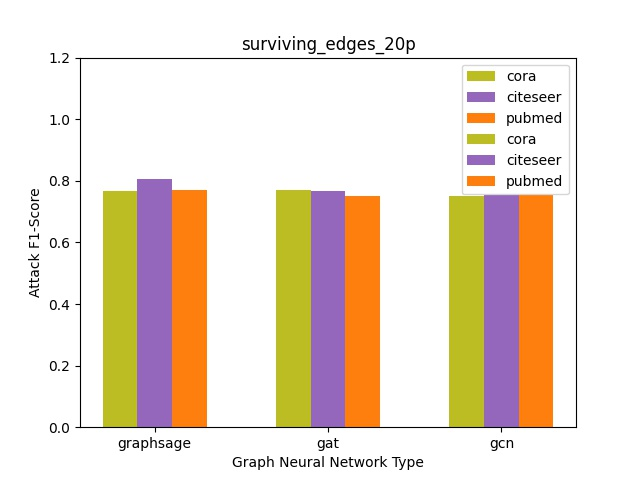
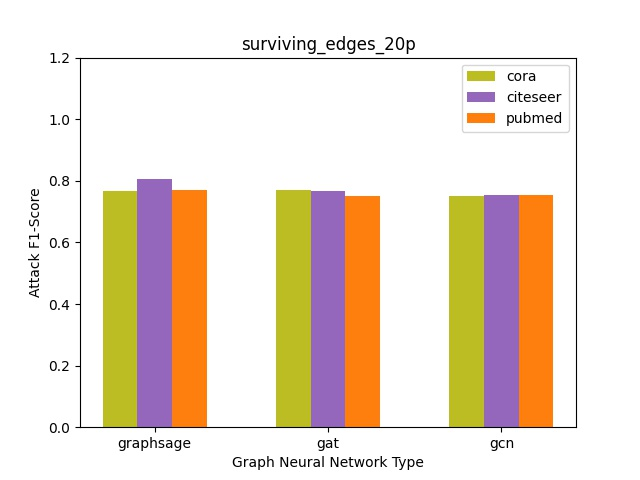
fix legend bug

Changed region(s): [[0.7188, 0.25, 0.875, 0.4062]]

diff --git a/Implementation/evaluate.py b/Implementation/evaluate.py
@@ -35,7 +35,7 @@ def get_plot(data, name):
     for i, (dataset, vals) in enumerate(values.items()):
         plt.bar(pos[i], values[dataset], label=dataset, width=bar_width, color=colors[i])
 
-    if name == 'baseline_2':
+    if name == 'baseline_1':
         plt.legend()
     path = f"./eval/plots/{name}.jpg"
     plt.savefig(path)

diff --git a/Implementation/eval/Evaluation.md b/Implementation/eval/Evaluation.md
@@ -656,4 +656,3 @@ Predict whether one knows people or not.
     </tbody>
     </table>
 <img src="/eval/plots/surviving_edges_80p.jpg" alt="drawing" width="520"/>
-
